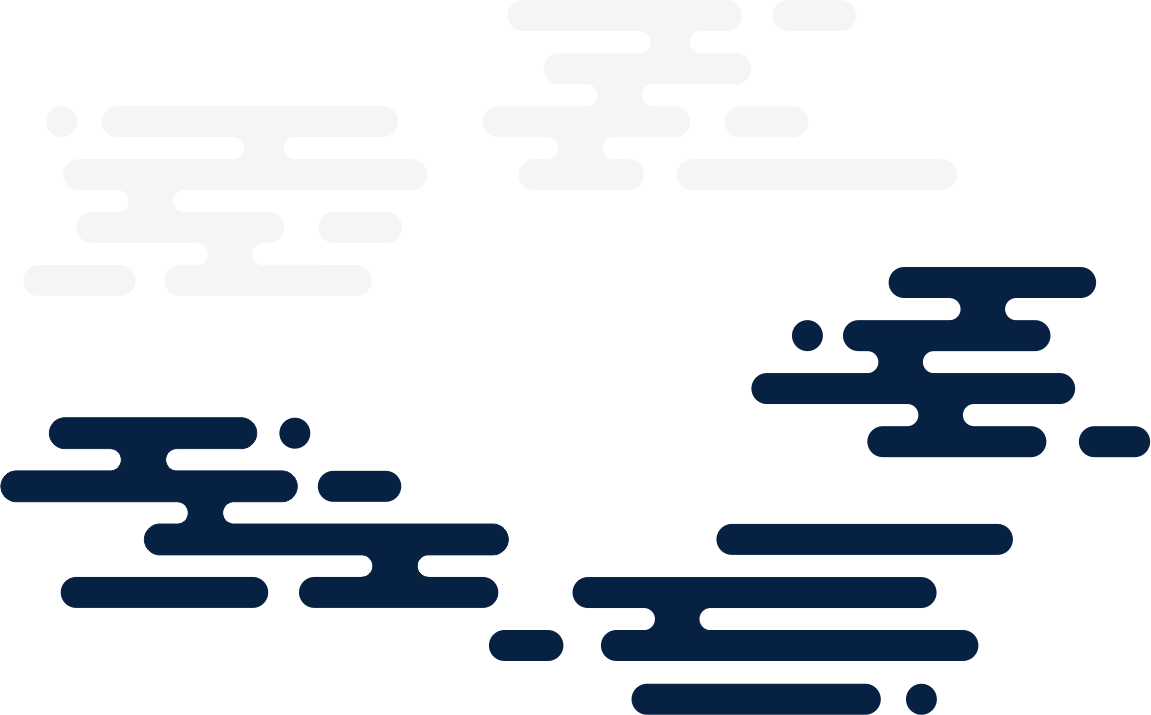
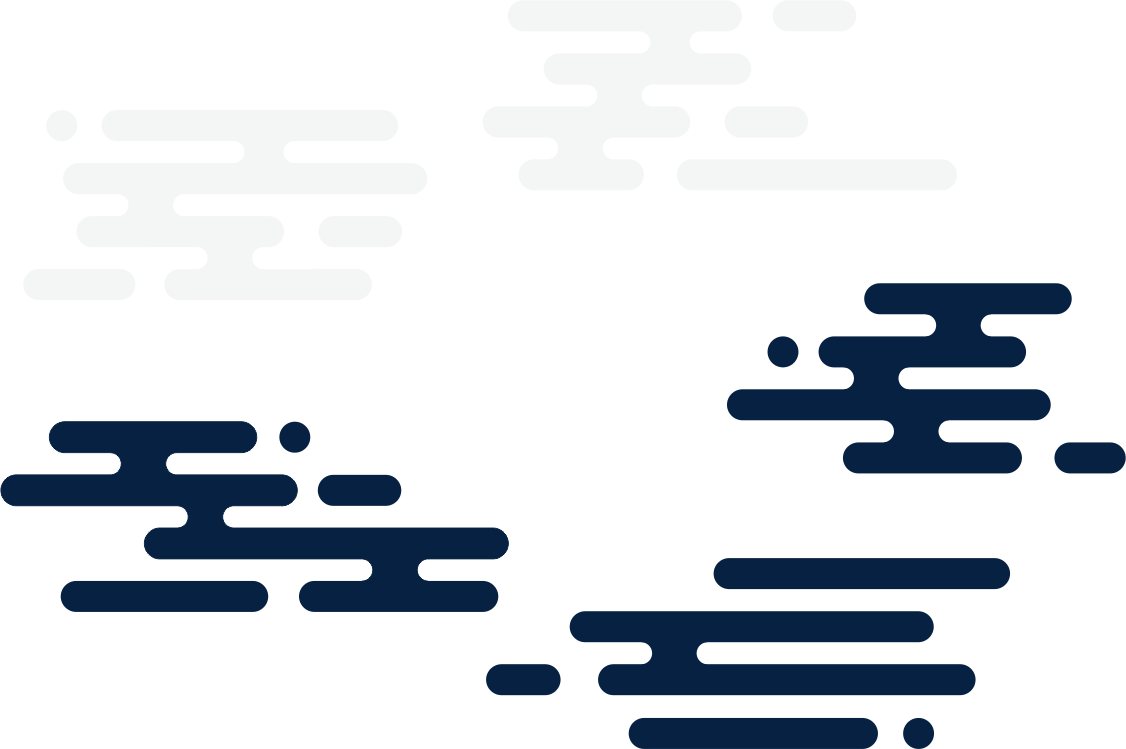
⚙ Code adjustments

diff --git a/src/pages/index.jsx b/src/pages/index.jsx
@@ -32,6 +32,7 @@ const StyledP = styled.p`
   font-family: "Futura light", sans-serif;
   font-size: 1.5vw;
   margin: 10px;
+  animation: text 0.8s both;
 `;
 
 function IndexPage() {
@@ -59,11 +60,6 @@ function IndexPage() {
             </div>
           </div>
           <StyledP>software engineer</StyledP>
-          <p>
-            <Link to="/about/">About</Link> <br />
-            <Link to="/work/">Work</Link> <br />
-            <Link to="/contact/">Contact</Link>
-          </p>
         </div>
       </StyledContent>
       <div id="moon-content" ref={sceneEl}>

diff --git a/src/styles/layout.css b/src/styles/layout.css
@@ -85,8 +85,12 @@ body {
   width: 56vh;
 }
 
-#portfolio,
 #clouds {
+  height: 67.2vh;
+  width: auto;
+}
+
+#portfolio {
   height: fit-content;
   width: fit-content;
   color: #ff4d5a;
@@ -177,5 +181,11 @@ body {
   }
   50% {
     clip-path: polygon(0 0, 100% 0, 100% 100%, 0 100%);
+  }
+}
+
+@keyframes fadeInBottom {
+  from {
+    transform: translateX(-100%);
   }
 }

diff --git a/src/components/Header.jsx b/src/components/Header.jsx
@@ -16,7 +16,7 @@ const StyledHeader = styled.header`
 
 const StyledLogo = styled.span`
   @import "../styles/typography.css";
-  font-family: "Futura", sans-serif;
+  font-family: "Futura light", sans-serif;
   font-size: 1.5em;
 
   &:hover {
